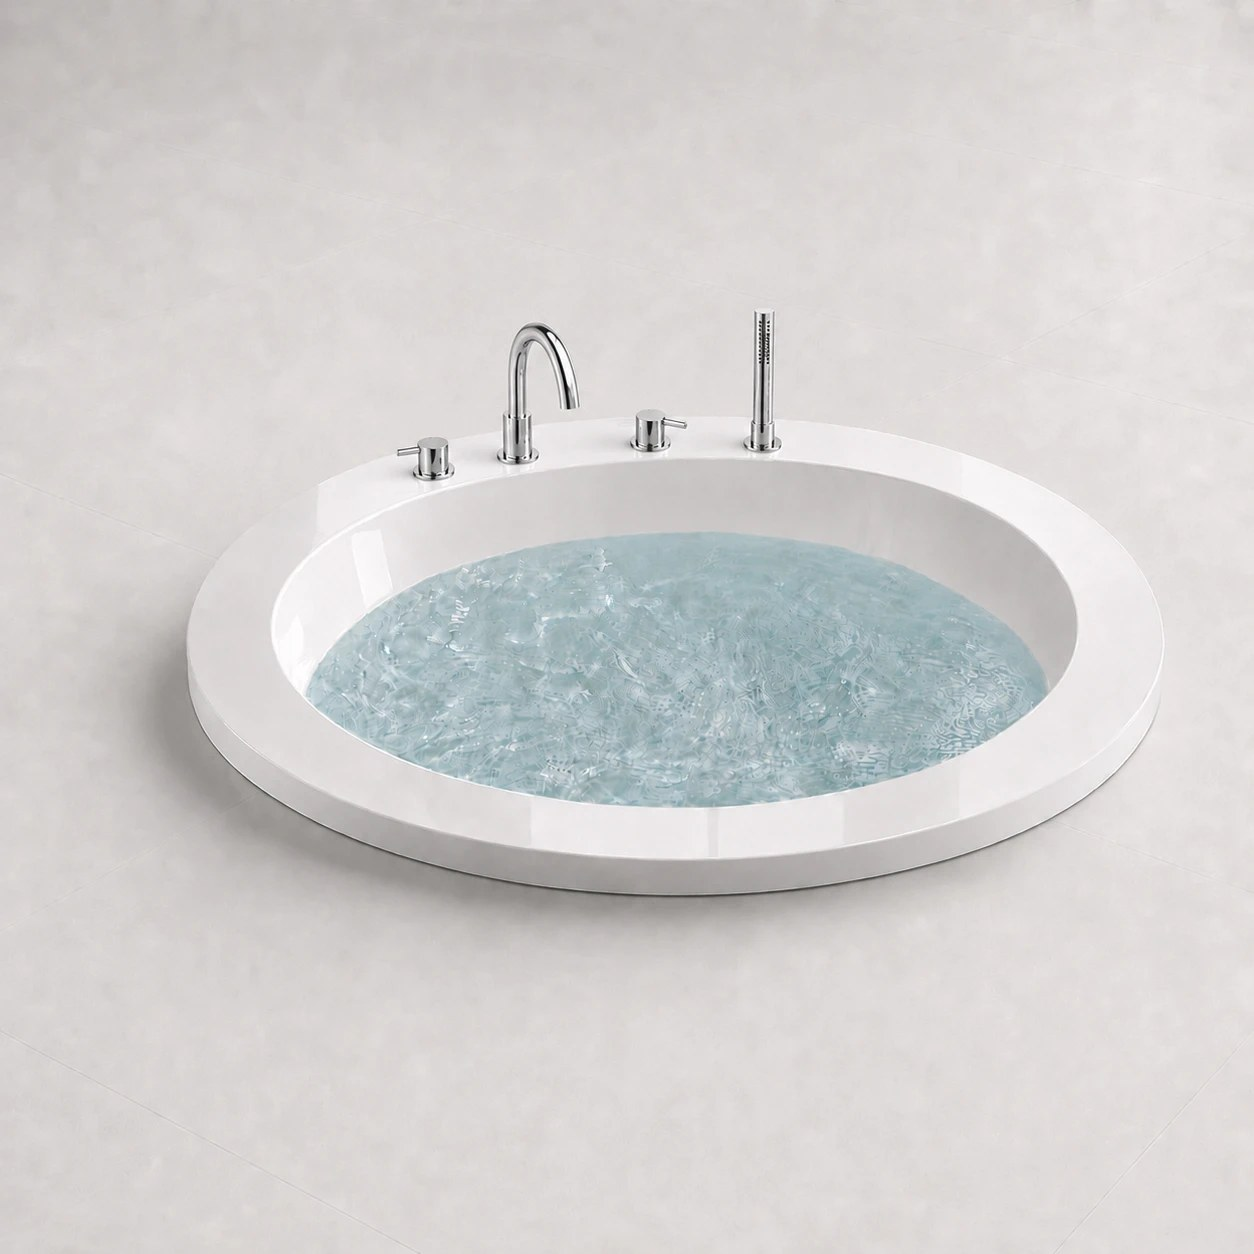
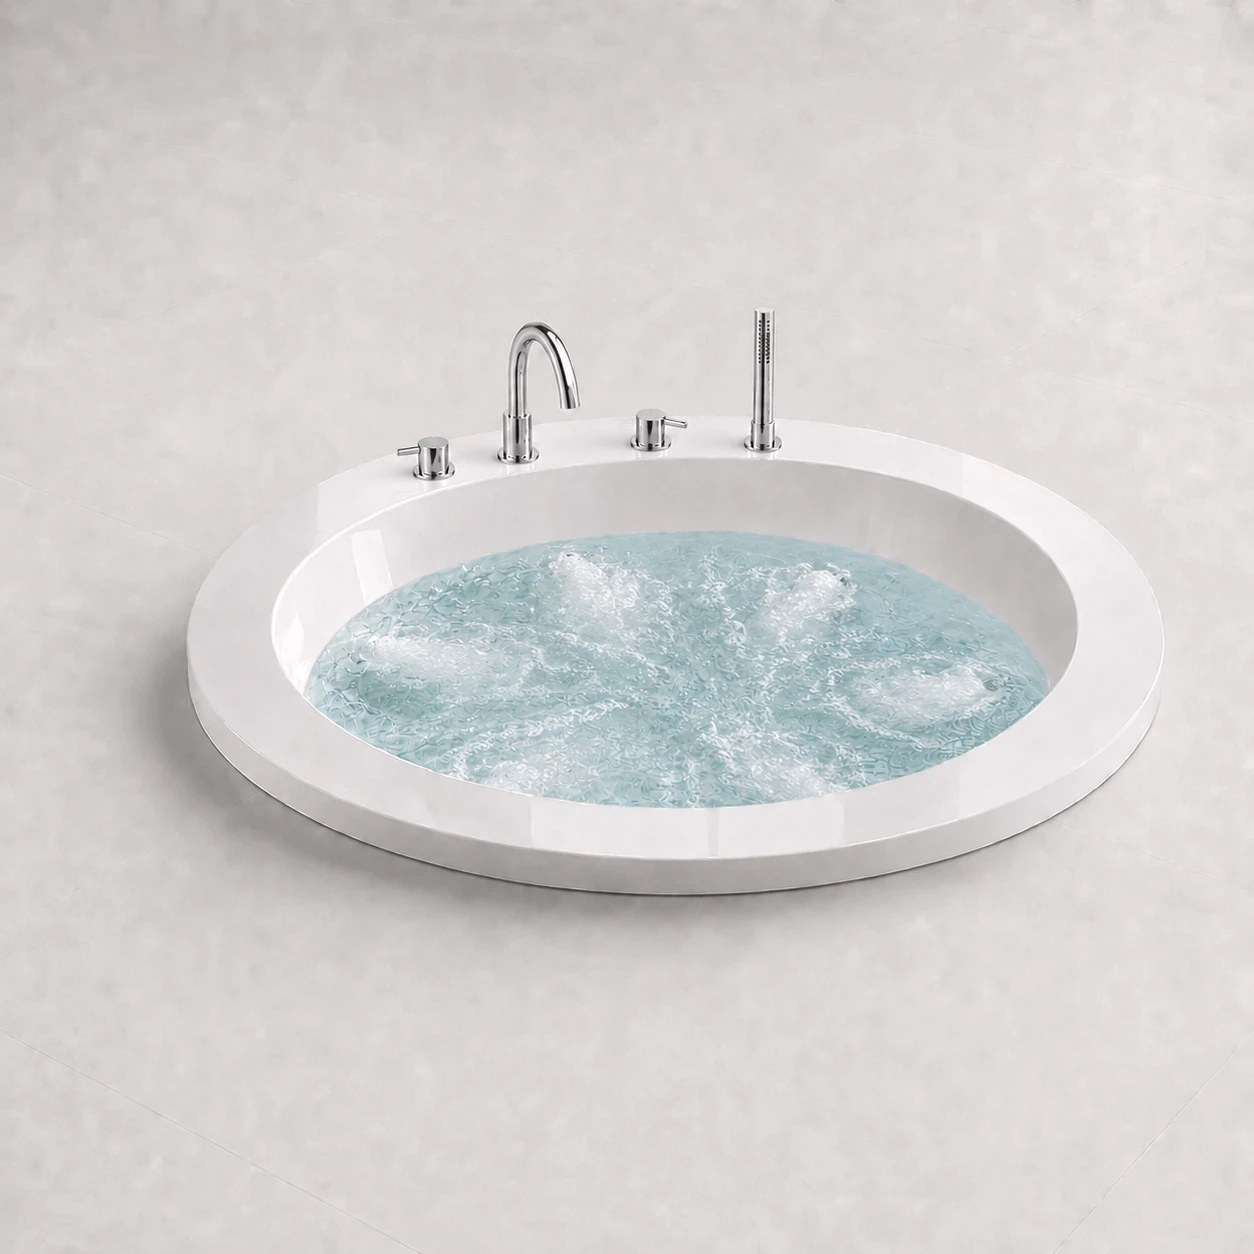
blanc ホライゾンの画像を差し替え(Anglet/Maubeuge/Troyes)
Claude-Session: https://claude.ai/code/session_01DrNNKTKMSrygxVDYMT1CpJ

diff --git a/estimate/app.js b/estimate/app.js
@@ -456,13 +456,13 @@ function getDiscountRate() {
   return 0;
 }
 
-const IMG_V = '?v=8';
+const IMG_V = '?v=9';
 function imgWrap(filename, wrapClass) {
-  return `<div class="${wrapClass}"><img src="images/${filename}.jpg.jpg?v=8" alt="" onerror="this.src='images/${filename}.jpg.jpeg?v=8';this.onerror=function(){this.src='images/${filename}.jpg.png?v=8';this.onerror=function(){this.src='images/${filename}.jpg?v=8';this.onerror=function(){this.parentElement.style.display='none';}}}"></div>`;
+  return `<div class="${wrapClass}"><img src="images/${filename}.jpg.jpg?v=9" alt="" onerror="this.src='images/${filename}.jpg.jpeg?v=9';this.onerror=function(){this.src='images/${filename}.jpg.png?v=9';this.onerror=function(){this.src='images/${filename}.jpg?v=9';this.onerror=function(){this.parentElement.style.display='none';}}}"></div>`;
 }
 function heroImg(filename, cssClass, style) {
   const styleAttr = style ? ` style="${style}"` : '';
-  return `<img class="${cssClass}"${styleAttr} src="images/${filename}.jpg.jpg?v=8" alt="" onerror="this.src='images/${filename}.jpg.jpeg?v=8';this.onerror=function(){this.src='images/${filename}.jpg.png?v=8';this.onerror=function(){this.src='images/${filename}.jpg?v=8';this.onerror=function(){this.style.display='none';}}}">`;
+  return `<img class="${cssClass}"${styleAttr} src="images/${filename}.jpg.jpg?v=9" alt="" onerror="this.src='images/${filename}.jpg.jpeg?v=9';this.onerror=function(){this.src='images/${filename}.jpg.png?v=9';this.onerror=function(){this.src='images/${filename}.jpg?v=9';this.onerror=function(){this.style.display='none';}}}">`;
 }
 
 function isDiscountValid() {
@@ -934,7 +934,7 @@ function renderJacSeries() {
       ${BLANC_SERIES.map((s, i) => {
         const sel = state.jac.seriesIdx === i ? 'selected' : '';
         return `<div class="card-series-overlay ${sel}" data-idx="${i}">
-          <img class="card-series-overlay-img" src="images/blanc_${s.id}.jpg.jpg?v=8" alt="" onerror="this.src='images/blanc_${s.id}.jpg.jpeg?v=8';this.onerror=function(){this.src='images/blanc_${s.id}.jpg.png?v=8';this.onerror=function(){this.src='images/blanc_${s.id}.jpg?v=8';this.onerror=function(){this.style.display='none';}};}">
+          <img class="card-series-overlay-img" src="images/blanc_${s.id}.jpg.jpg?v=9" alt="" onerror="this.src='images/blanc_${s.id}.jpg.jpeg?v=9';this.onerror=function(){this.src='images/blanc_${s.id}.jpg.png?v=9';this.onerror=function(){this.src='images/blanc_${s.id}.jpg?v=9';this.onerror=function(){this.style.display='none';}};}">
           <div class="card-series-overlay-body">
             <div class="card-series-overlay-name">${s.name}</div>
             <div class="card-series-overlay-sub">${s.nameJa}</div>
@@ -1834,7 +1834,7 @@ function render() {
     <div class="header">
       <a href="../" style="text-decoration:none;color:#888;font-size:11px;letter-spacing:0.06em;display:flex;align-items:center;gap:4px;padding:4px 8px;border:1px solid #E2E2E2;border-radius:3px;background:#fff;">← ホーム</a>
       <div class="header-logo">簡易見積もりシステム</div>
-      <a href="../" style="display:block;line-height:0;"><img class="header-logo-img" src="images/sense_logo.jpg.png.png?v=8" alt="SENSE Product Company — ホームへ" onerror="this.src='images/sense_logo.jpg.png?v=8';this.onerror=function(){this.style.display='none';}"></a>
+      <a href="../" style="display:block;line-height:0;"><img class="header-logo-img" src="images/sense_logo.jpg.png.png?v=9" alt="SENSE Product Company — ホームへ" onerror="this.src='images/sense_logo.jpg.png?v=9';this.onerror=function(){this.style.display='none';}"></a>
     </div>
     ${renderFromHearingBanner()}
     ${progressBar}
